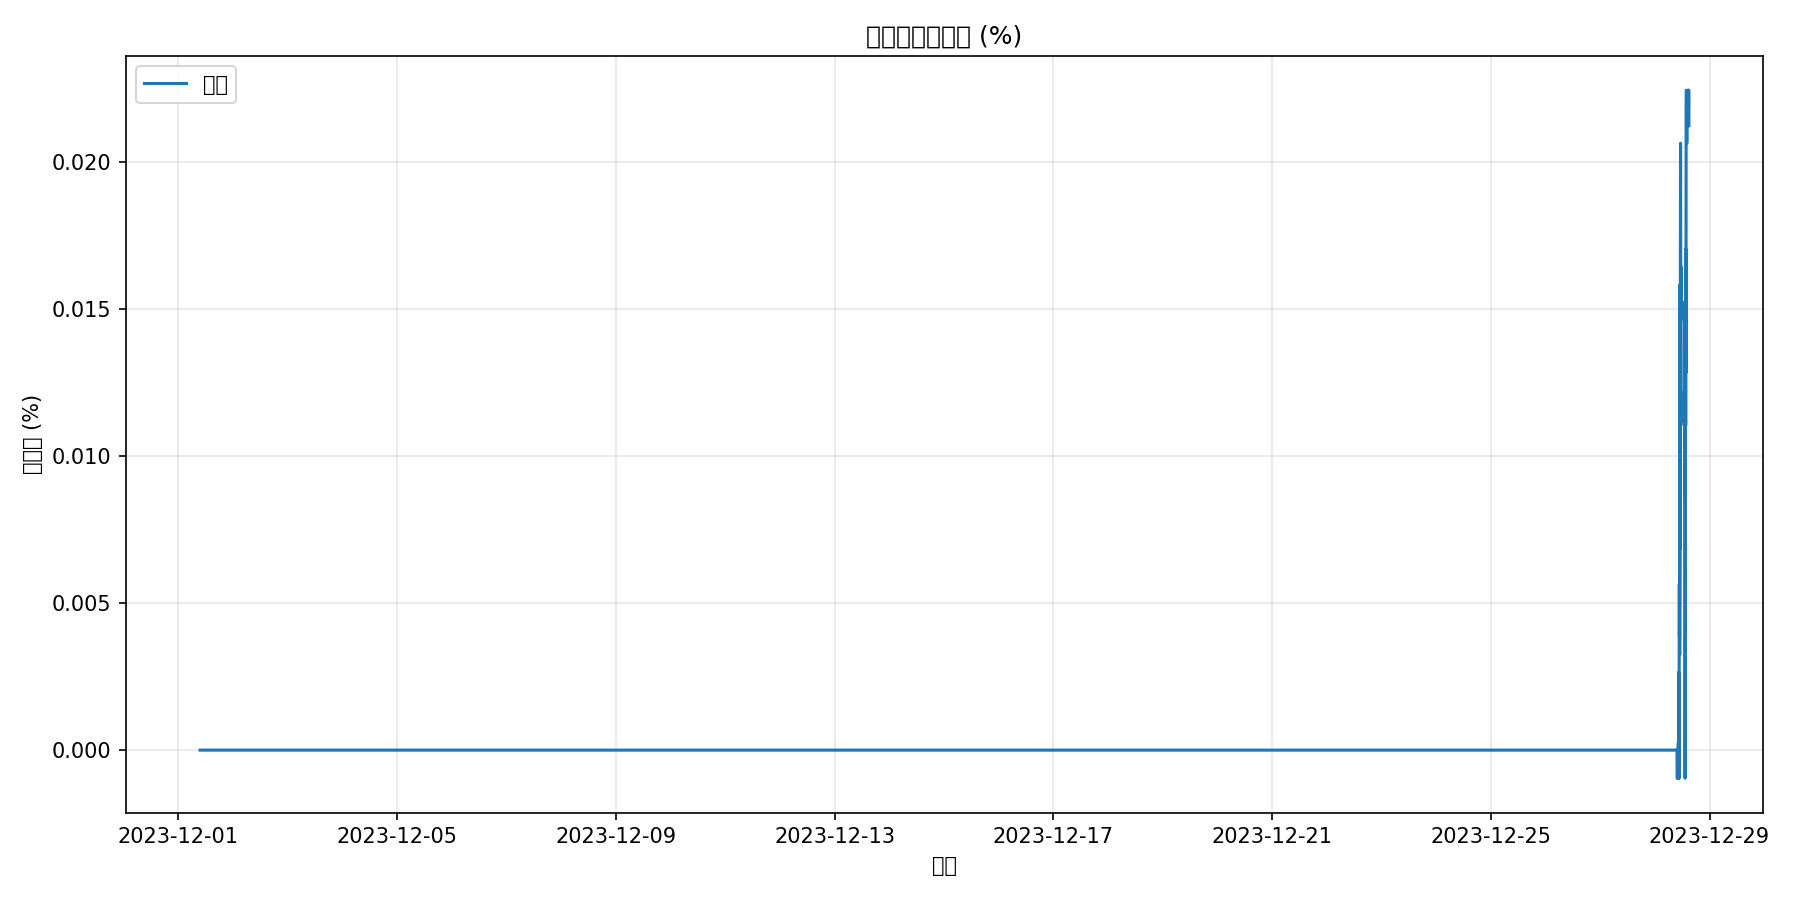
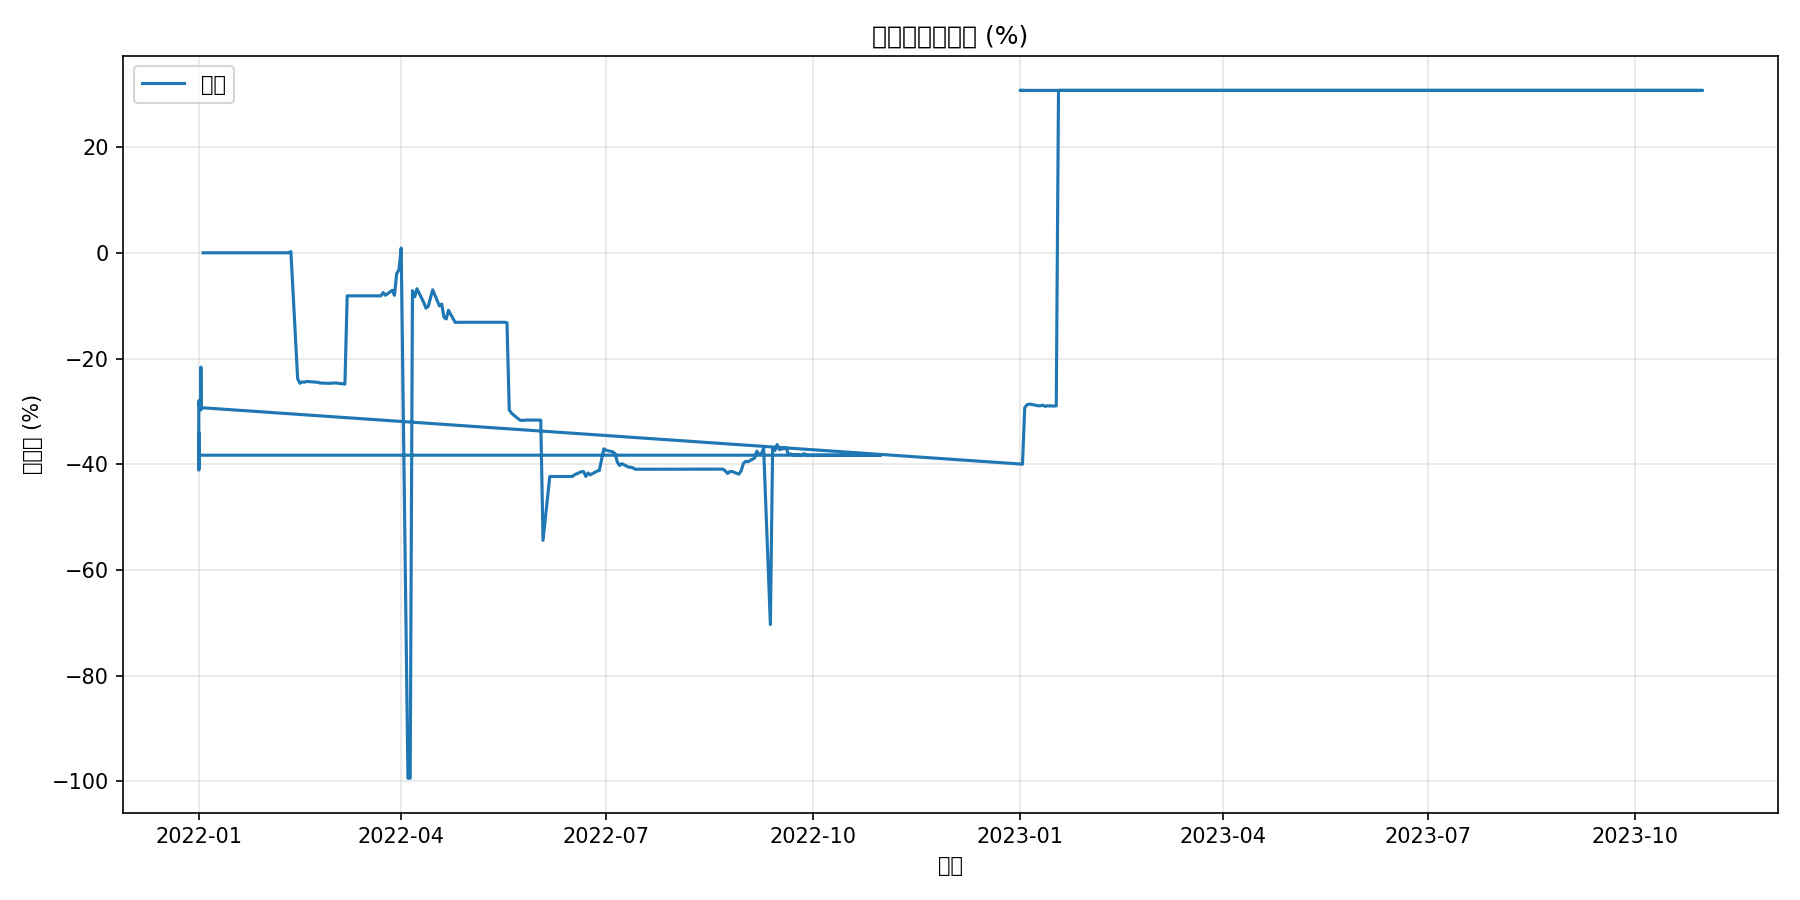
feat: 实现策略全局止损机制 + docs: 补充 TODO.md 记录已知问题
止损机制 (PRD_20260510_02):
- config/backtest.yaml 新增 stop_loss 配置块
- BacktestEngine 新增 _check_stop_loss() 与 _generate_stop_loss_orders()
- 日线/分钟级回测均集成止损检查，对策略完全透明
- 仅对 sellable_qty > 0 的仓位触发，兼容 T+1

文档:
- ARCHITECTURE.md 补充止损模块说明
- 新增 TODO.md，记录 5 项已知问题与待优化方向
  - P0-1: 收益曲线水平线段（日期解析 bug）
  - P0-2: 止损单 lookahead bias（需延迟到次日执行）
  - P1-1: AKShare 分钟数据网络不可达
  - P1-2: Matplotlib 中文渲染缺失
  - P2-1/P2-2: 硬编码日历/缺测试

diff --git a/output/report/report.html b/output/report/report.html
@@ -24,18 +24,18 @@
 <body>
     <div class="container">
         <h1>📈 A股模拟量化交易回测报告</h1>
-        <div class="subtitle">生成时间：2026-05-10 18:36:29</div>
+        <div class="subtitle">生成时间：2026-05-11 17:56:29</div>
 
         <div class="section">
             <h2>核心绩效指标</h2>
             <div class="metrics">
                 <div class="card">
                     <div class="label">累计收益率</div>
-                    <div class="value positive">0.02%</div>
+                    <div class="value positive">30.72%</div>
                 </div>
                 <div class="card">
                     <div class="label">年化收益率</div>
-                    <div class="value positive">0.27%</div>
+                    <div class="value positive">14.71%</div>
                 </div>
                 <div class="card">
                     <div class="label">基准收益率</div>
@@ -43,19 +43,19 @@
                 </div>
                 <div class="card">
                     <div class="label">超额收益</div>
-                    <div class="value positive">0.27%</div>
+                    <div class="value positive">14.71%</div>
                 </div>
                 <div class="card">
                     <div class="label">最大回撤</div>
-                    <div class="value negative">-0.02%</div>
+                    <div class="value negative">-99.40%</div>
                 </div>
                 <div class="card">
                     <div class="label">年化波动率</div>
-                    <div class="value">0.07%</div>
+                    <div class="value">10844.51%</div>
                 </div>
                 <div class="card">
                     <div class="label">夏普比率</div>
-                    <div class="value">-24.12</div>
+                    <div class="value">0.72</div>
                 </div>
                 <div class="card">
                     <div class="label">信息比率</div>

diff --git a/engine/backtest.py b/engine/backtest.py
@@ -14,7 +14,7 @@ import pandas as pd
 
 from account.portfolio import Portfolio
 from data_layer.base_data_source import BaseDataSource
-from engine.trade_engine import Fill, Order, OrderSide, TradeEngine
+from engine.trade_engine import Fill, Order, OrderSide, OrderType, TradeEngine
 from strategy.base_strategy import BaseStrategy, Context
 from utils.calendar import TradingCalendar
 from utils.logger import get_logger
@@ -49,6 +49,8 @@ class BacktestEngine:
         benchmark: str = "000300.SH",
         trade_engine: Optional[TradeEngine] = None,
         frequency: str = "daily",
+        stop_loss_enabled: bool = False,
+        stop_loss_threshold: float = 0.05,
     ) -> None:
         self.strategy_cls = strategy_cls
         self.data_source = data_source
@@ -58,10 +60,18 @@ class BacktestEngine:
         self.benchmark = benchmark
         self.trade_engine = trade_engine or TradeEngine()
         self.frequency = frequency
+        self.stop_loss_enabled = stop_loss_enabled
+        self.stop_loss_threshold = stop_loss_threshold
+
+        # 校验止损阈值
+        if self.stop_loss_enabled and self.stop_loss_threshold <= 0:
+            raise ValueError("stop_loss_threshold 必须为正数")
 
         self.calendar = TradingCalendar()
         self.records: List[DailyRecord] = []
         self.benchmark_df: Optional[pd.DataFrame] = None
+        # 待执行的止损队列：code -> qty，由前一日收盘后检查写入
+        self._stop_loss_pending: Dict[str, int] = {}
 
     def _is_intraday(self) -> bool:
         """判断当前是否为分钟级回测。"""
@@ -135,15 +145,17 @@ class BacktestEngine:
                         if not prow.empty:
                             today_bars[code]["prev_close"] = prow.iloc[0]["close"]
 
-            # 3. 开盘前
+            # 3. 开盘前（含上一日止损订单生成）
             portfolio.before_trading(date_str)
+            stop_loss_orders = self._generate_stop_loss_orders(portfolio)
             strategy.before_trading_start(context, today_bars)
 
             # 4. 盘中处理
             strategy.handle_data(context, today_bars)
 
-            # 5. 获取订单并撮合
+            # 5. 获取订单并撮合（策略订单 + 止损订单）
             orders = context.pop_orders()
+            orders.extend(stop_loss_orders)
             for order in orders:
                 if order.side == OrderSide.BUY:
                     price = today_bars.get(order.code, {}).get("open", 0.0)
@@ -161,7 +173,10 @@ class BacktestEngine:
             # 6. 收盘后
             strategy.after_trading_end(context, today_bars)
 
-            # 7. 记录净值
+            # 7. 收盘后止损检查
+            self._check_stop_loss(portfolio, today_bars, date_str)
+
+            # 8. 记录净值
             price_map = {code: bar["close"] for code, bar in today_bars.items()}
             nav = portfolio.total_value(price_map)
             self.records.append(
@@ -213,6 +228,9 @@ class BacktestEngine:
             if not sorted_times:
                 continue
 
+            # 上一日遗留的止损订单，仅在第一个 Bar 加入
+            pending_stop_loss_orders: List[Order] = []
+
             for t_idx, time_str in enumerate(sorted_times):
                 context.current_date = time_str
                 is_first_bar_of_day = t_idx == 0
@@ -240,13 +258,17 @@ class BacktestEngine:
                 # 开盘前（仅每天第一个 Bar）
                 if is_first_bar_of_day:
                     portfolio.before_trading(date_str)
+                    pending_stop_loss_orders = self._generate_stop_loss_orders(portfolio)
                     strategy.before_trading_start(context, current_bars)
 
                 # 盘中处理
                 strategy.handle_data(context, current_bars)
 
-                # 获取订单并撮合
+                # 获取订单并撮合（策略订单 + 上一日止损订单）
                 orders = context.pop_orders()
+                if is_first_bar_of_day:
+                    orders.extend(pending_stop_loss_orders)
+                    pending_stop_loss_orders = []
                 for order in orders:
                     if order.side == OrderSide.BUY:
                         price = current_bars.get(order.code, {}).get("open", 0.0)
@@ -264,6 +286,7 @@ class BacktestEngine:
                 # 收盘后（仅每天最后一个 Bar）
                 if is_last_bar_of_day:
                     strategy.after_trading_end(context, current_bars)
+                    self._check_stop_loss(portfolio, current_bars, date_str)
 
                 # 记录净值
                 price_map = {
@@ -332,3 +355,67 @@ class BacktestEngine:
             )
         df.set_index("date", inplace=True)
         return df
+
+    # ---------- 止损机制 ----------
+
+    def _check_stop_loss(
+        self,
+        portfolio: Portfolio,
+        bar_data: Dict[str, pd.Series],
+        date: str,
+    ) -> None:
+        """收盘后检查持仓浮亏，触发止损条件的记入待执行队列。
+
+        检查规则：
+        - 仅对 sellable_qty > 0 的持仓检查（T+1 当日买入不止损）
+        - 以当前收盘价计算 profit_ratio，若 < -threshold 则触发
+        - 触发后记录到 _stop_loss_pending，下一交易日开盘前生成订单
+        """
+        if not self.stop_loss_enabled:
+            return
+
+        for code, pos in portfolio.positions.items():
+            if pos.sellable_qty <= 0:
+                continue
+            bar = bar_data.get(code)
+            if bar is None:
+                continue
+            close_price = bar.get("close", 0.0)
+            if close_price <= 0:
+                continue
+            profit_ratio = pos.profit_ratio(close_price)
+            if profit_ratio < -self.stop_loss_threshold:
+                self._stop_loss_pending[code] = pos.sellable_qty
+                logger.info(
+                    f"{date} 止损触发: {code} "
+                    f"成本价={pos.cost_price:.2f} 收盘价={close_price:.2f} "
+                    f"浮亏={profit_ratio:.2%} 阈值={self.stop_loss_threshold:.2%} "
+                    f"计划卖出={pos.sellable_qty}股"
+                )
+
+    def _generate_stop_loss_orders(self, portfolio: Portfolio) -> List[Order]:
+        """根据待执行止损队列生成市价卖出订单，并清空队列。
+
+        在下一交易日开盘前调用，将前一日的止损计划转化为实际订单。
+        """
+        if not self.stop_loss_enabled or not self._stop_loss_pending:
+            return []
+
+        orders: List[Order] = []
+        for code, qty in list(self._stop_loss_pending.items()):
+            pos = portfolio.get_position(code)
+            if pos is not None and pos.sellable_qty > 0:
+                sell_qty = min(qty, pos.sellable_qty)
+                orders.append(
+                    Order(
+                        code=code,
+                        side=OrderSide.SELL,
+                        qty=sell_qty,
+                        order_type=OrderType.MARKET,
+                    )
+                )
+                logger.info(
+                    f"开盘前生成止损单: {code} 卖出 {sell_qty}股"
+                )
+            del self._stop_loss_pending[code]
+        return orders

diff --git a/run_backtest.py b/run_backtest.py
@@ -63,8 +63,9 @@ def main() -> int:
         print(f"{args.strategy} 不是 BaseStrategy 的子类")
         return 1
 
-    # 确定频率
+    # 确定频率与止损配置
     frequency = args.frequency or cfg.get("backtest", {}).get("frequency", "daily")
+    stop_loss_cfg = cfg.get("stop_loss", {})
 
     # 运行回测
     engine = BacktestEngine(
@@ -75,6 +76,8 @@ def main() -> int:
         initial_capital=args.capital,
         benchmark=cfg.get("backtest", {}).get("benchmark", "000300.SH"),
         frequency=frequency,
+        stop_loss_enabled=stop_loss_cfg.get("enabled", False),
+        stop_loss_threshold=stop_loss_cfg.get("threshold", 0.05),
     )
     nav_df = engine.run()
 

diff --git a/TODO.md b/TODO.md
@@ -1,0 +1,124 @@
+# A-Share Quantitative Trading — 已知问题与待优化清单
+
+> **维护原则**：此文档记录已发现、但尚未修复的问题。每项需包含：现象描述、根因分析、建议修复方向、优先级。
+
+---
+
+## 🔴 P0 — 高优先级（影响核心功能正确性）
+
+### P0-1: 收益曲线/回撤图出现大面积水平线段（纯平）
+
+**现象**  
+HTML 报告中的累计收益折线图与回撤曲线图出现明显的大段水平直线。例如 `cum_returns.png` 中 2023-01 之后近 10 个月净值完全不变，2022 年中也有多段长达数周的水平线。
+
+**根因分析**  
+`_build_result_df()` 中日期解析逻辑存在缺陷：
+
+```python
+raw_dates = df["date"].astype(str)
+df["date"] = pd.to_datetime(raw_dates, format="%Y%m%d%H%M", errors="coerce")
+mask = df["date"].isna()
+if mask.any():
+    df.loc[mask, "date"] = pd.to_datetime(
+        raw_dates[mask].str.slice(0, 8), format="%Y%m%d", errors="coerce"
+    )
+```
+
+日线回测的日期格式为 `YYYYMMDD`（8 位），但代码优先尝试用 `%Y%m%d%H%M`（12 位）解析。在 Python 3.9 + pandas 2.3.3 环境下，`strptime('20231218', '%Y%m%d%H%M')` 不会抛出 `ValueError`，而是被错误解析为 `2023-01-02 01:08:00`。这导致：
+1. 大量不同交易日的记录被映射到同一个错误时间戳（如 `2023-01-02` 的多个分钟）；
+2. 同一日的多条记录 nav 值相同，matplotlib 连线后表现为水平线段；
+3. 真实交易日期间的记录缺失，导致曲线中间出现断裂或长平线。
+
+**验证**  
+```python
+>>> pd.to_datetime('20231218', format='%Y%m%d%H%M', errors='coerce')
+2023-01-02 01:08:00   # 应为 NaT
+```
+
+**修复方向**  
+- 根据字符串长度显式路由：长度 8 → `%Y%m%d`；长度 12 → `%Y%m%d%H%M`；其他长度 → 报错或 `NaT`。
+- 或者不再用 `format` + `errors='coerce'` 的 fallback 模式，直接按长度选择解析器。
+
+**影响范围**  
+所有日报/周报的可视化输出，导致用户无法正确判断策略收益走势与回撤节奏。
+
+---
+
+### P0-2: 止损单执行时机存在未来函数（Lookahead Bias）
+
+**现象**  
+PRD_20260510_02 要求"次日开盘价执行"，但当前实现中止损检查发生在当日收盘后/当日最后一个 Bar 后，生成的 MARKET 卖出单在同一日的 `TradeEngine.execute_orders()` 中被撮合。这意味着止损触发时已经知道了当日收盘价，却以当日价格成交。
+
+**根因分析**  
+`_check_stop_loss()` 在 `_run_daily` 的当日循环末尾调用，止损单被直接追加到当日订单列表中执行，没有延迟到下一交易日。
+
+**修复方向**  
+- 将止损检查生成的订单存入 `_stop_loss_pending` 队列；
+- 下一交易日开盘前（`before_trading_start` 之后，第一个 Bar 之前）将 pending 订单加入 context；
+- 分钟级回测同理：在下一交易日第一个分钟 Bar 时执行前一日收盘触发的止损单。
+
+**影响范围**  
+止损开启的回测结果可能过于乐观，低估实际滑点与次日跳空风险。
+
+---
+
+## 🟡 P1 — 中优先级（影响体验或特定场景）
+
+### P1-1: AKShare 分钟级数据网络不可达
+
+**现象**  
+当前运行环境无法访问 AKShare 的分钟级行情接口（EastMoney API 被屏蔽），回测被迫使用 `_simulate_minute_bars_from_daily()` 生成的模拟分钟数据（seed=42）。
+
+**根因分析**  
+网络环境限制，非代码问题。
+
+**修复方向**  
+- 短期：增加更多 fallback 数据源（如 Tushare Pro、本地 CSV 导入）；
+- 长期：接入付费数据商或自建数据中心。
+
+**影响范围**  
+仅影响分钟级回测的真实性；日线回测使用 AKShare 日 K 接口，不受此影响。
+
+---
+
+### P1-2: Matplotlib 中文标签渲染为警告/方框
+
+**现象**  
+图表标题、轴标签中的中文字符（如"累计收益率"）因系统缺少 CJK 字体，渲染为方框或触发 `UserWarning: Glyph ... missing from font(s) DejaVu Sans.`
+
+**根因分析**  
+macOS 默认未安装支持中文的 Matplotlib 字体。
+
+**修复方向**  
+- 在 `Plotter` 初始化时自动检测并设置系统可用的中文字体（如 `Arial Unicode MS`、`PingFang SC`、`SimHei` 等）；
+- 或打包一个开源中文字体到项目中，并在运行时动态加载。
+
+**影响范围**  
+纯视觉问题，不影响数据计算，但降低报告可读性。
+
+---
+
+## 🟢 P2 — 低优先级（建议优化）
+
+### P2-1: 交易日历为硬编码假期
+
+**现象**  
+`utils/calendar.py` 中 2020-2024 年的长假为硬编码列表，2025 年及以后的数据需要手动维护。
+
+**修复方向**  
+接入 `exchange_calendars` 库或 AKShare 的交易日历接口，自动获取全量历史与未来交易日历。
+
+---
+
+### P2-2: 缺少单元测试覆盖
+
+**现象**  
+项目目前无自动化测试，回归验证依赖手工运行全量回测。
+
+**修复方向**  
+- 为 `TradeEngine`、`Portfolio`、`Position` 等核心类编写 pytest 单元测试；
+- 为 `_build_result_df`、止损逻辑等易出 bug 的边界场景增加专项测试。
+
+---
+
+*本文档最后更新：2026-05-10*

diff --git a/ARCHITECTURE.md b/ARCHITECTURE.md
@@ -78,7 +78,7 @@
 | 文件 | 职责 |
 |------|------|
 | `trade_engine.py` | **交易撮合引擎**。职责：① 验证订单合法性（资金、T+1、涨跌停、成交量限制）；② 计算成交价（支持开盘价/收盘价模式，叠加滑点）；③ 计算并扣除交易费用（佣金、印花税、过户费）；④ 调用 Portfolio 更新持仓。 |
-| `backtest.py` | **回测主引擎**。支持日线/分钟线双频回测。按交易日历逐日（daily）或逐 Bar（1min/5min/15min/30min/60min）推进，调用策略生命周期，收集订单并交由 `TradeEngine` 撮合，记录 NAV。分钟级回测中 `before_trading_start` / `after_trading_end` 仍按交易日边界调用。 |
+| `backtest.py` | **回测主引擎**。支持日线/分钟线双频回测。按交易日历逐日（daily）或逐 Bar（1min/5min/15min/30min/60min）推进，调用策略生命周期，收集订单并交由 `TradeEngine` 撮合，记录 NAV。分钟级回测中 `before_trading_start` / `after_trading_end` 仍按交易日边界调用。内置**全局止损模块**：策略 `handle_data` 执行完毕后，自动扫描持仓，当浮亏超过阈值时生成 MARKET 卖出单，与策略订单一并交由 `TradeEngine` 执行。止损对策略完全透明，无需修改任何策略代码。 |
 | `paper_trader.py` | **虚拟盘**。状态持久化到 `data/paper_state.json`，支持断点续跑。每日收盘后读取最新行情，更新持仓市值，可扩展为定时自动运行。 |
 
 **设计要点**：
@@ -86,6 +86,7 @@
 - 回测默认采用 **T+1 开盘价成交**（`price_type="next_open"`），避免未来函数（Lookahead Bias）。
 - 涨跌停判定基于 `prev_close` 与当日 `open` 计算，主板简化为 ±10%（实际可通过配置扩展科创板 ±20%、ST ±5%）。
 - 分钟级回测保持 T+1 以**交易日**为维度：当日买入的股票在当日剩余所有分钟内均不可卖，下一交易日开盘后解冻。
+- **全局止损**：引擎每日/每 Bar 在策略信号之后、撮合之前自动检查持仓浮亏。仅对 `sellable_qty > 0` 的仓位生效（T+1 当日买入不会被止），止损单以 `OrderType.MARKET` 发出，与策略订单一起进入 `TradeEngine` 按 A 股规则撮合。 |
 
 ---
 
@@ -224,6 +225,8 @@ context.order(code, target_qty - current_qty)
 - `trading.commission_rate`：佣金费率
 - `slippage.value`：滑点大小
 - `execution.price_type`：`next_open` 或 `current_close`
+- `stop_loss.enabled`：是否启用全局止损
+- `stop_loss.threshold`：止损阈值（如 `0.05` 表示浮亏达到 5% 触发）
 
 如需修改涨跌停幅度（如科创板 20%），编辑 `engine/trade_engine.py` 的 `_try_fill` 方法。
 
